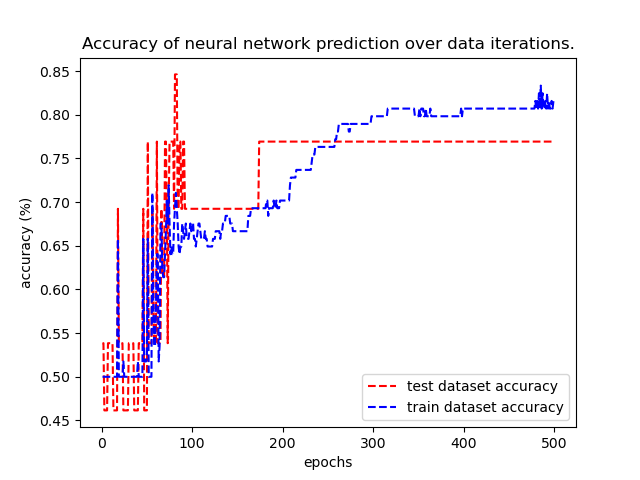
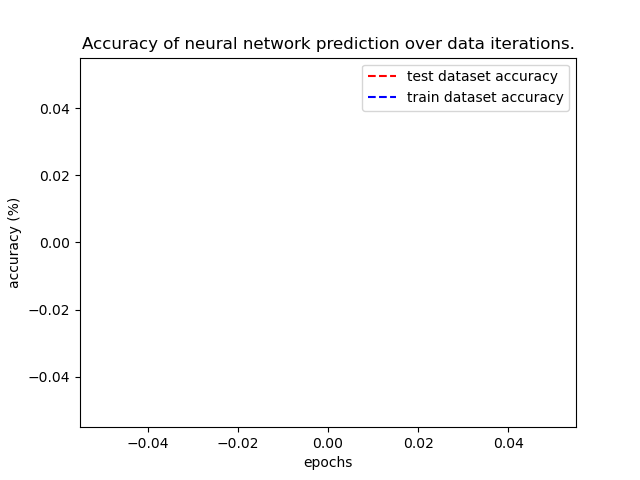
Random forest implmentation complete.

diff --git a/CMP3751M.py b/CMP3751M.py
@@ -3,6 +3,7 @@ import numpy
 import matplotlib.pyplot
 import sklearn.preprocessing
 from sklearn.neural_network import MLPClassifier
+from sklearn.ensemble import RandomForestClassifier
 from sklearn.model_selection import train_test_split
 from sklearn.metrics import accuracy_score
 from sys import getsizeof
@@ -63,23 +64,30 @@ print(y)
 #split data between test and train set 1:9 ratio.
 x_train, x_test, y_train, y_test = train_test_split(x,y, test_size=0.1)
 
-
+#tmp vars for accuracy plots.
 accuracyScores_test = []
 accuracyScores_train = []
 
-iter = 500
+#iter var states how many epochs of data to run.
+#creates neurel network tiwh 2 hidden layers with 500 nodes each using logisitic activation function.
+iter = 1
 net = MLPClassifier((500,500),'logistic',max_iter=iter);
 
+#loops through data and records accuracy for each epoch.
 for n in range (1,iter):
-    
+    #single epoch run.
     net.partial_fit(x_train, y_train, classes=numpy.unique(y_train))
 
+    #record accuracies and add to array for graph.
     predicted = net.predict(x_test)
     accuracyScores_test.append(accuracy_score(y_test, predicted))
     print ("accuracy of neural network = ", accuracy_score(y_test, predicted))
     predicted = net.predict(x_train)
     accuracyScores_train.append(accuracy_score(y_train, predicted))
     
+    print("output function: ", net.out_activation_)
+
+#code related to plotting accuracy over epochs graph.
 matplotlib.pyplot.clf()
 matplotlib.pyplot.plot(range(1,iter),accuracyScores_test, 'r--',label = 'test dataset accuracy')
 matplotlib.pyplot.plot(range(1,iter),accuracyScores_train,'b--',label = 'train dataset accuracy')
@@ -89,5 +97,20 @@ matplotlib.pyplot.xlabel("epochs")
 matplotlib.pyplot.ylabel("accuracy (%)")
 matplotlib.pyplot.savefig('S3AccuracyPlot')
 
-print("output function: ", net.out_activation_)
+#reset var resues here.
+accuracyScores = []
+#two loops one for min leaf size and one for number of trees.
+for leaf_size in [5,50]:
+    for ntrees in [10,50,100,1000,5000]:
 
+        #code generates trains and calculates accuracy for all parameters.
+        rfc = RandomForestClassifier(iter, min_samples_leaf=leaf_size)
+        rfc.fit(x_train, y_train)
+
+        predicted = rfc.predict(x_test)
+        accuracyScores.append(accuracy_score(y_test, predicted))
+
+#creates data frame table to show results more clearly from all runs.
+table = pandas.DataFrame(data= {'5':accuracyScores[0:5], '50':accuracyScores[5:10]})
+table.index=[10,50,100,1000,5000]
+print(table)
